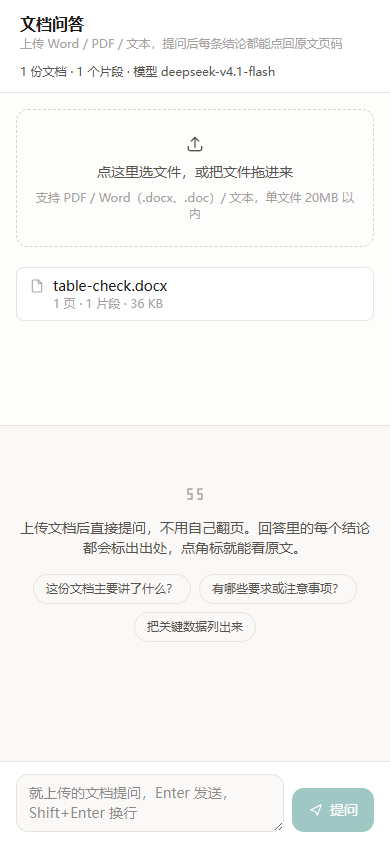
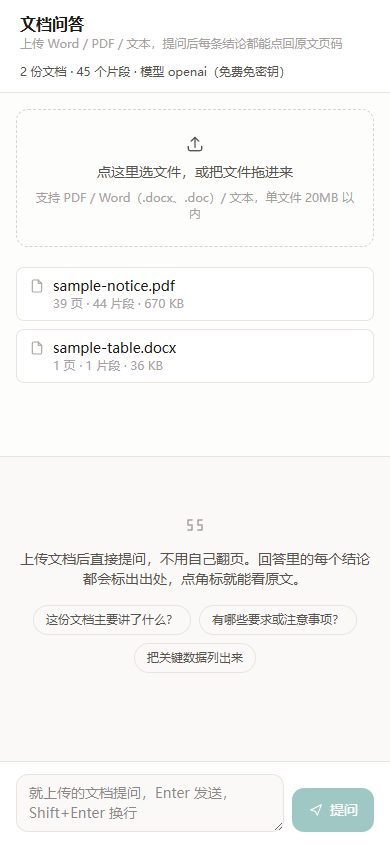
docs: refresh UI screenshots with keyless build (samples only) and embed preview in README

diff --git a/README.md b/README.md
@@ -14,6 +14,12 @@
 - **回答**：只依据上传的内容作答；资料不足会直说「没有相关内容」，不编造
 - **引用校验**：模型万一编出越界编号（比如只有 3 条却写 `[9]`），流式实时剔除，不留点不动的死链
 
+## 界面预览
+
+![问答与引用](preview/ui-qa.png)
+
+> 左侧上传与文档列表，右侧问答；回答里的 **[n]** 是可点角标，点开右侧抽屉看该页原文并高亮命中词。顶部显示当前模型（内置免密钥模型）。
+
 ## 技术栈
 
 | 层 | 选型 | 说明 |
